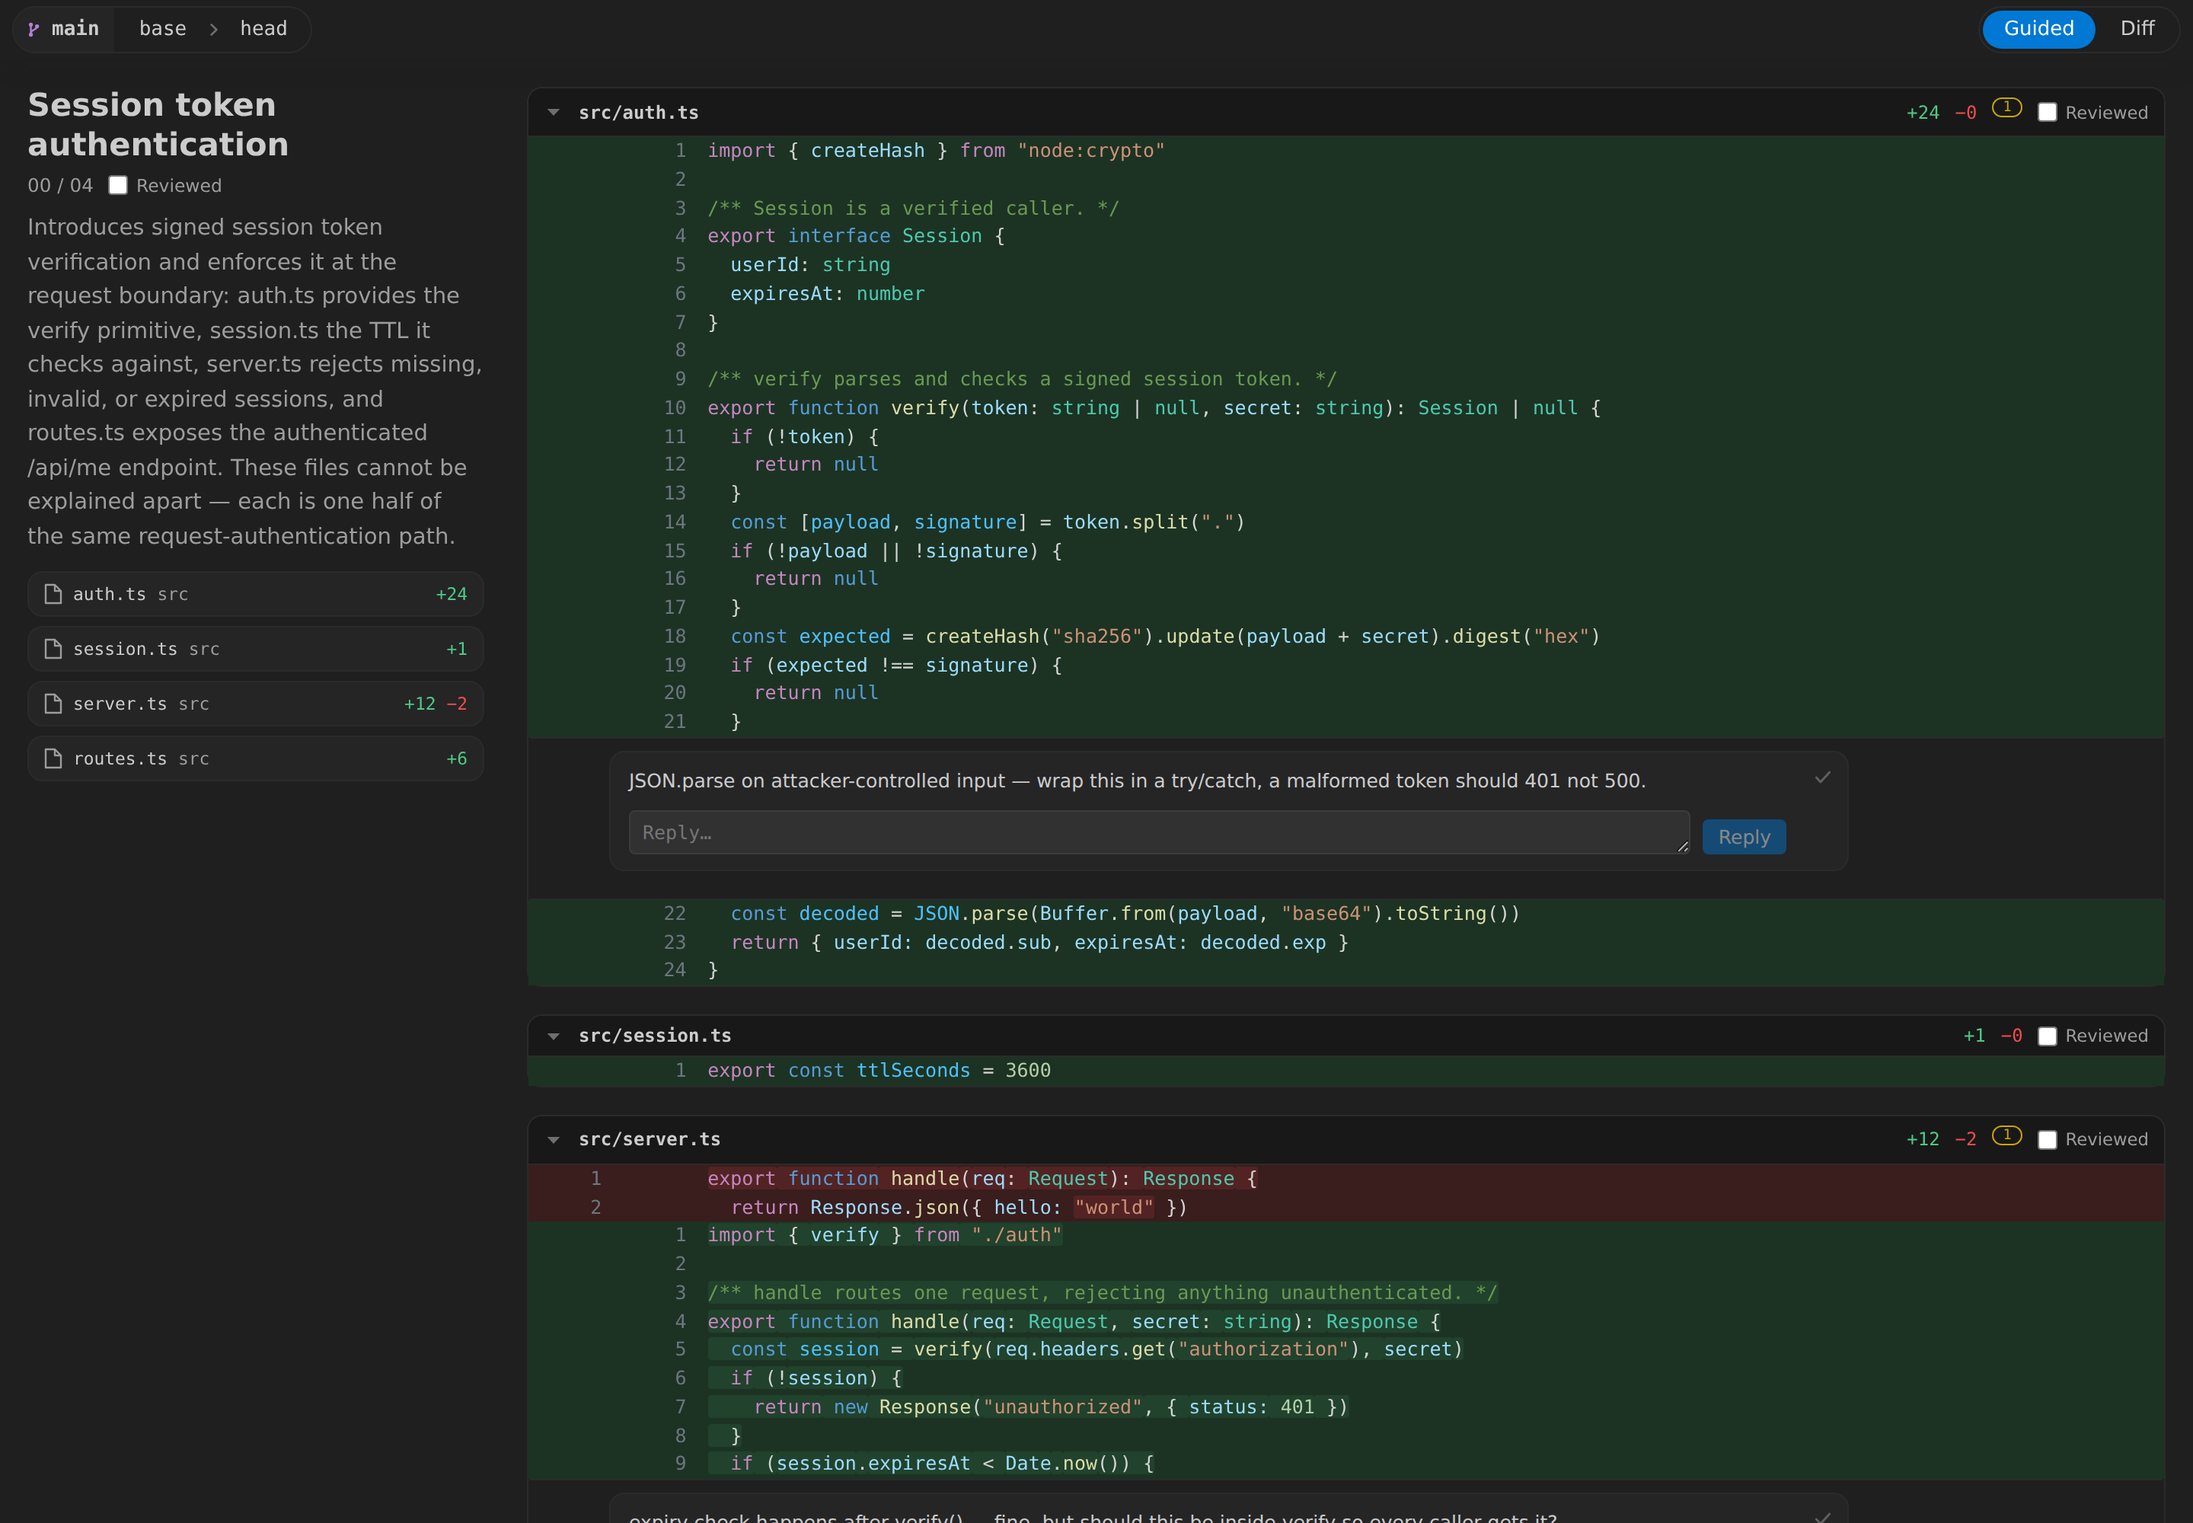
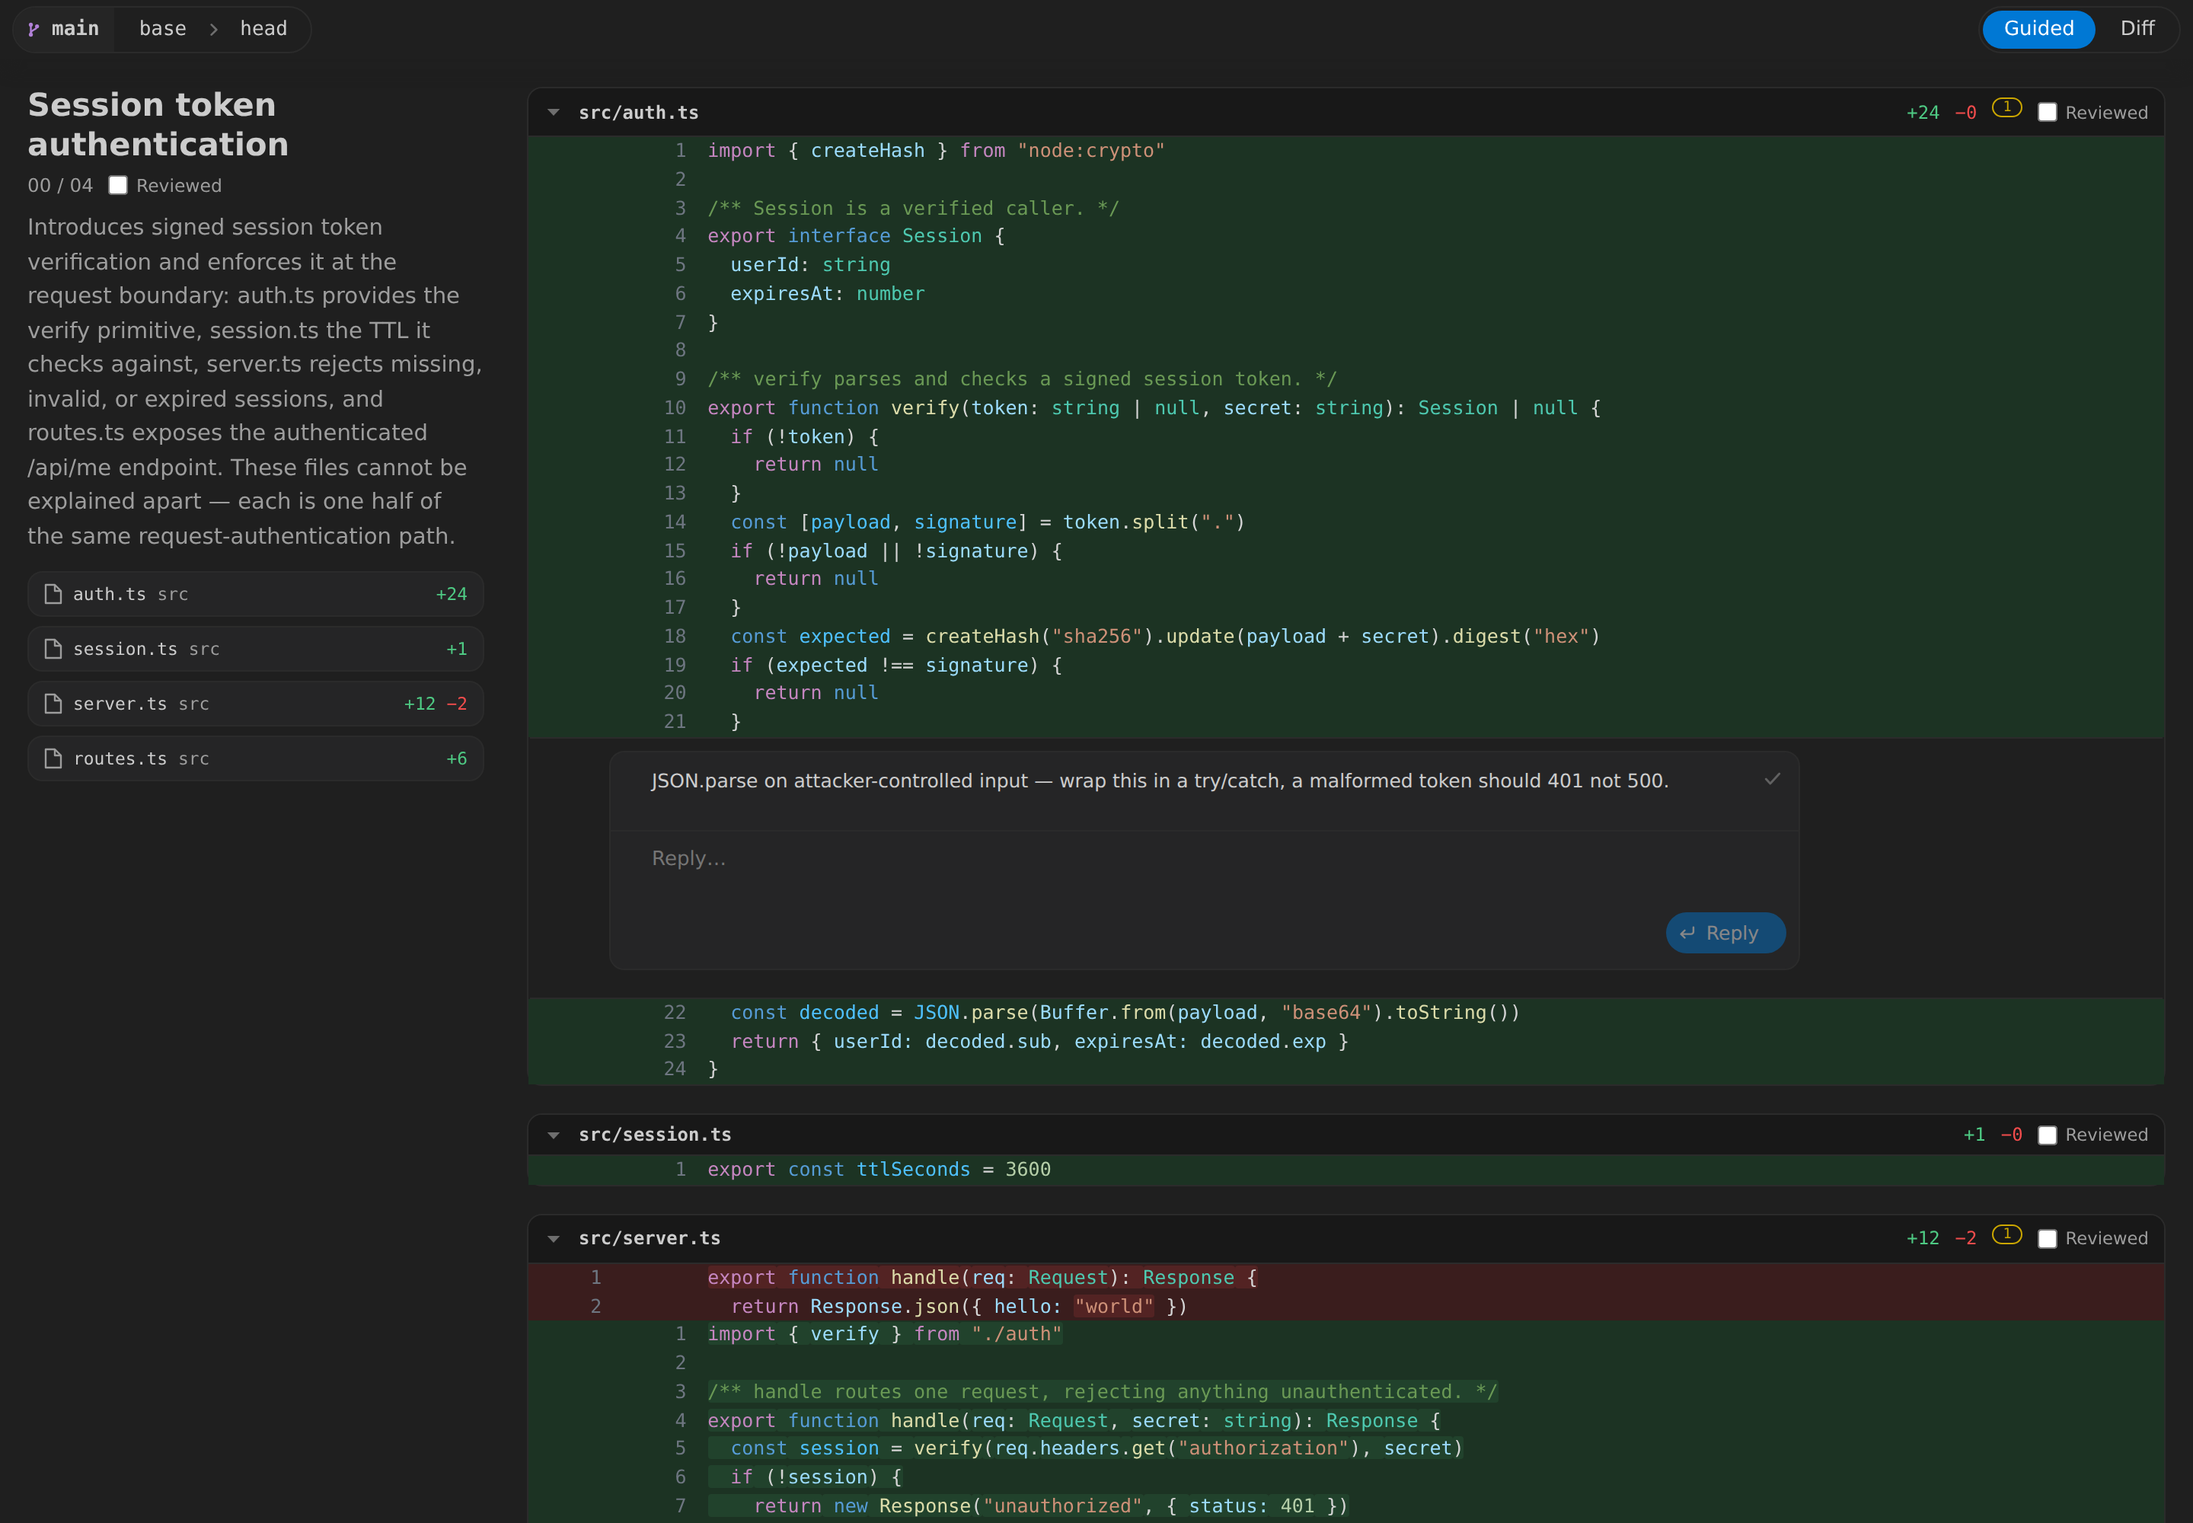
Give a comment box a mark, a rule, and a field that fills its floor
The thread card rebuilt from the accordion prototype:

- The agent's turn carries a blue dot in its own gutter instead of the
  word "agent", and every turn keeps that gutter so the text blocks line
  up whoever wrote them. The trash icon is its opposite number, sized to
  share the resolve tick's left edge.
- Turns are ruled apart and padded evenly, 21px above and below.
- The composer is the whole bottom of the card: no field border of its
  own, clicking anywhere in it starts typing, and it grows with the
  draft from one line up.
- Enter sends, Shift+Enter writes a new line, and the pill button says
  what the key does.
- A comment box nothing has been written in yet closes from an x in the
  corner rather than a Cancel button beside the send.

Composer and NewCommentBox were near-duplicates; they are now one
component under two labels.

Claude-Session: https://claude.ai/code/session_011eDuDDGQaiutako6dYBUAY

diff --git a/src/webview/CommentThread.tsx b/src/webview/CommentThread.tsx
@@ -1,4 +1,4 @@
-import { useState } from 'react'
+import { useRef, useState } from 'react'
 import type { Comment, Thread } from '../core/types.js'
 import { post } from './vscodeApi.js'
 
@@ -27,15 +27,18 @@ export const CommentThread = ({ thread }: { thread: Thread }) => {
       ) : (
         <>
           {thread.status === 'outdated' && <OutdatedNotice thread={thread} />}
-          {thread.comments.map(comment => (
-            <CommentBody
-              key={comment.id}
-              comment={comment}
-              onDelete={() => post({ type: 'deleteComment', threadId: thread.id, commentId: comment.id })}
-            />
-          ))}
+          <div className="gr-comments">
+            {thread.comments.map(comment => (
+              <CommentBody
+                key={comment.id}
+                comment={comment}
+                onDelete={() => post({ type: 'deleteComment', threadId: thread.id, commentId: comment.id })}
+              />
+            ))}
+          </div>
           <Composer
-            placeholder={resolved ? 'Reply to reopen…' : 'Reply…'}
+            placeholder="Reply…"
+            submitLabel="Reply"
             onSubmit={body => post({ type: 'reply', threadId: thread.id, body })}
           />
         </>
@@ -60,13 +63,13 @@ const ResolveTick = ({ resolved, onToggle }: { resolved: boolean; onToggle: () =
   </button>
 )
 
-/** CommentBody renders one message, labelling only the agent, with a delete affordance on hover. */
+/** CommentBody renders one message, marking only the agent, with a delete affordance on hover. */
 const CommentBody = ({ comment, onDelete }: { comment: Comment; onDelete: () => void }) => (
   <div className="gr-comment">
-    <div className="gr-comment-body">
-      {comment.author === 'agent' && <span className="gr-author">agent</span>}
-      {comment.body}
-    </div>
+    <span className="gr-comment-mark">
+      {comment.author === 'agent' && <i className="gr-comment-dot" title="agent" />}
+    </span>
+    <div className="gr-comment-body">{comment.body}</div>
     <button className="gr-comment-delete" aria-label="Delete comment" title="Delete comment" onClick={onDelete}>
       <TrashIcon />
     </button>
@@ -75,7 +78,7 @@ const CommentBody = ({ comment, onDelete }: { comment: Comment; onDelete: () => 
 
 /** TrashIcon is the delete glyph shown when a comment is hovered. */
 const TrashIcon = () => (
-  <svg viewBox="0 0 16 16" width="13" height="13" aria-hidden="true" focusable="false">
+  <svg viewBox="0 0 16 16" width="15" height="15" aria-hidden="true" focusable="false">
     <path
       fill="none"
       stroke="currentColor"
@@ -94,9 +97,22 @@ const OutdatedNotice = ({ thread }: { thread: Thread }) => (
   </>
 )
 
-/** Composer is the always-present box for adding a message to a thread. */
-const Composer = ({ placeholder, onSubmit }: { placeholder: string; onSubmit: (body: string) => void }) => {
+/** Composer is the box for adding a message: the whole region types, the button sends. */
+const Composer = ({
+  placeholder,
+  submitLabel,
+  autoFocus = false,
+  onSubmit,
+  onCancel,
+}: {
+  placeholder: string
+  submitLabel: string
+  autoFocus?: boolean
+  onSubmit: (body: string) => void
+  onCancel?: () => void
+}) => {
   const [draft, setDraft] = useState('')
+  const field = useRef<HTMLTextAreaElement>(null)
   const submit = () => {
     if (draft.trim()) {
       onSubmit(draft.trim())
@@ -105,58 +121,72 @@ const Composer = ({ placeholder, onSubmit }: { placeholder: string; onSubmit: (b
   }
 
   return (
-    <div className="gr-composer">
+    <div className="gr-composer" onClick={() => field.current?.focus()}>
       <textarea
-        rows={draft ? 3 : 1}
+        ref={field}
+        rows={1}
+        autoFocus={autoFocus}
         value={draft}
         placeholder={placeholder}
-        onChange={event => setDraft(event.target.value)}
+        onChange={event => {
+          setDraft(event.target.value)
+          grow(event.target)
+        }}
         onKeyDown={event => {
-          if (event.key === 'Enter' && (event.metaKey || event.ctrlKey)) {
+          if (event.key === 'Enter' && !event.shiftKey) {
+            event.preventDefault()
             submit()
+          }
+          if (event.key === 'Escape') {
+            onCancel?.()
           }
         }}
       />
-      <button disabled={!draft.trim()} onClick={submit}>
-        Reply
-      </button>
-    </div>
-  )
-}
-
-/** NewCommentBox is the composer shown when a line is first clicked. */
-export const NewCommentBox = ({ onSubmit, onCancel }: { onSubmit: (body: string) => void; onCancel: () => void }) => {
-  const [draft, setDraft] = useState('')
-  const submit = () => {
-    if (draft.trim()) {
-      onSubmit(draft.trim())
-    }
-  }
-
-  return (
-    <div className="gr-thread">
-      <div className="gr-composer">
-        <textarea
-          autoFocus
-          rows={3}
-          value={draft}
-          placeholder="Leave a comment…  (Cmd/Ctrl+Enter to save)"
-          onChange={event => setDraft(event.target.value)}
-          onKeyDown={event => {
-            if (event.key === 'Enter' && (event.metaKey || event.ctrlKey)) {
-              submit()
-            }
-            if (event.key === 'Escape') {
-              onCancel()
-            }
-          }}
-        />
-        <button disabled={!draft.trim()} onClick={submit}>
-          Comment
+      <div className="gr-composer-buttons">
+        <button className="gr-send" disabled={!draft.trim()} onClick={submit}>
+          <ReturnIcon />
+          {submitLabel}
         </button>
       </div>
     </div>
   )
+}
+
+/** ReturnIcon is the key the send button answers to. */
+const ReturnIcon = () => (
+  <svg viewBox="0 0 16 16" width="13" height="13" aria-hidden="true" focusable="false">
+    <path
+      fill="none"
+      stroke="currentColor"
+      strokeWidth="1.5"
+      strokeLinecap="round"
+      strokeLinejoin="round"
+      d="M13.5 3.5v3.5a2 2 0 0 1-2 2H3.5M6.5 6 3.5 9l3 3"
+    />
+  </svg>
+)
+
+/** CloseIcon is the way out of a comment box nothing has been written in yet. */
+const CloseIcon = () => (
+  <svg viewBox="0 0 16 16" width="13" height="13" aria-hidden="true" focusable="false">
+    <path fill="none" stroke="currentColor" strokeWidth="1.4" strokeLinecap="round" d="M4 4l8 8M12 4l-8 8" />
+  </svg>
+)
+
+/** NewCommentBox is the composer shown when a line is first clicked. */
+export const NewCommentBox = ({ onSubmit, onCancel }: { onSubmit: (body: string) => void; onCancel: () => void }) => (
+  <div className="gr-thread fresh">
+    <button className="gr-close" aria-label="Close" title="Close" onClick={onCancel}>
+      <CloseIcon />
+    </button>
+    <Composer placeholder="Leave a comment…" submitLabel="Comment" autoFocus onSubmit={onSubmit} onCancel={onCancel} />
+  </div>
+)
+
+/** grow keeps the field the height of the draft it holds. */
+function grow(field: HTMLTextAreaElement): void {
+  field.style.height = 'auto'
+  field.style.height = `${field.scrollHeight}px`
 }
 
 /** preview is the one-line summary a resolved thread collapses to. */

diff --git a/src/webview/theme.css b/src/webview/theme.css
@@ -606,7 +606,7 @@ textarea:focus { outline: 1px solid var(--vscode-focusBorder); }
   background: var(--vscode-editorWidget-background, var(--vscode-editor-background));
   border: 1px solid var(--vscode-panel-border);
   border-radius: var(--gr-card-radius);
-  padding: 10px 40px 10px 12px;
+  padding: 10px 8px 10px 12px;
   margin-bottom: 8px;
   max-width: 760px;
 }
@@ -623,8 +623,8 @@ textarea:focus { outline: 1px solid var(--vscode-focusBorder); }
   display: flex;
   align-items: center;
   justify-content: center;
-  width: 20px;
-  height: 20px;
+  width: 22px;
+  height: 22px;
   padding: 0;
   background: transparent;
   border: none;
@@ -634,6 +634,25 @@ textarea:focus { outline: 1px solid var(--vscode-focusBorder); }
   color: var(--vscode-descriptionForeground);
 }
 
+.gr-close {
+  position: absolute;
+  top: 6px;
+  right: 6px;
+  display: flex;
+  align-items: center;
+  justify-content: center;
+  width: 22px;
+  height: 22px;
+  padding: 0;
+  background: transparent;
+  border: none;
+  border-radius: var(--gr-radius);
+  cursor: pointer;
+  opacity: 0.6;
+  color: var(--vscode-descriptionForeground);
+}
+
+.gr-close:hover,
 .gr-tick:hover {
   opacity: 1;
   background: var(--vscode-toolbar-hoverBackground, var(--vscode-list-hoverBackground, transparent));
@@ -655,8 +674,19 @@ textarea:focus { outline: 1px solid var(--vscode-focusBorder); }
   white-space: nowrap;
 }
 
-.gr-comment { display: flex; align-items: flex-start; gap: 6px; margin-bottom: 8px; line-height: 1.5; }
+.gr-comment { display: flex; align-items: flex-start; gap: 9px; padding: 21px 0; line-height: 1.5; }
+.gr-comments .gr-comment:first-child { padding-top: 0; }
+.gr-comment + .gr-comment { border-top: 1px solid var(--vscode-panel-border); }
 .gr-comment-body { flex: 1; min-width: 0; white-space: pre-wrap; }
+.gr-comment-mark { flex: none; width: 6px; align-self: stretch; padding-top: 6px; }
+
+.gr-comment-dot {
+  display: block;
+  width: 6px;
+  height: 6px;
+  border-radius: 50%;
+  background: var(--vscode-textLink-foreground);
+}
 
 .gr-comment-delete {
   flex: none;
@@ -681,11 +711,44 @@ textarea:focus { outline: 1px solid var(--vscode-focusBorder); }
   opacity: 1;
   background: var(--vscode-toolbar-hoverBackground, var(--vscode-list-hoverBackground, transparent));
 }
-.gr-author { font-weight: 600; margin-right: 6px; color: var(--vscode-textLink-foreground); }
+.gr-composer {
+  margin: 0 -8px -10px -12px;
+  padding: 9px 8px 10px 27px;
+  border-top: 1px solid var(--vscode-panel-border);
+  cursor: text;
+}
 
-.gr-composer { display: flex; gap: 8px; align-items: flex-end; margin-top: 8px; }
-.gr-composer textarea { flex: 1; min-height: 28px; }
-.gr-composer button:disabled { opacity: 0.45; cursor: default; }
+.gr-thread.fresh .gr-composer { margin-top: -10px; padding: 10px; border-top: none; }
+.gr-thread.fresh .gr-composer textarea { padding-right: 24px; }
+
+.gr-composer textarea {
+  display: block;
+  width: 100%;
+  min-height: 38px;
+  padding: 0;
+  background: none;
+  border: none;
+  border-radius: 0;
+  color: var(--vscode-editor-foreground);
+  font-family: var(--vscode-font-family);
+  font-size: var(--vscode-font-size);
+  line-height: 1.5;
+  resize: none;
+  overflow: hidden;
+}
+
+.gr-composer textarea:focus { outline: none; }
+.gr-composer-buttons { display: flex; justify-content: flex-end; margin-top: 6px; }
+
+.gr-send {
+  display: inline-flex;
+  align-items: center;
+  gap: 6px;
+  padding: 6px 18px 6px 7px;
+  border-radius: 999px;
+}
+
+.gr-send:disabled { opacity: 0.45; cursor: default; }
 
 .gr-badge {
   display: inline-block;

diff --git a/src/webview/CommentThread.test.tsx b/src/webview/CommentThread.test.tsx
@@ -1,8 +1,8 @@
 // @vitest-environment jsdom
 import { describe, it, expect, vi, afterEach } from 'vitest'
-import { render, screen, cleanup } from '@testing-library/react'
+import { render, screen, cleanup, fireEvent } from '@testing-library/react'
 import type { Thread } from '../core/types.js'
-import { CommentThread } from './CommentThread.js'
+import { CommentThread, NewCommentBox } from './CommentThread.js'
 import { post } from './vscodeApi.js'
 
 vi.mock('./vscodeApi.js', () => ({ post: vi.fn() }))
@@ -37,5 +37,65 @@ describe('CommentThread', () => {
     render(<CommentThread thread={thread} />)
 
     expect(screen.getAllByLabelText('Delete comment')).toHaveLength(2)
+  })
+
+  it('sends the reply on Enter', () => {
+    render(<CommentThread thread={thread} />)
+    const field = screen.getByRole('textbox')
+
+    fireEvent.change(field, { target: { value: 'looks right' } })
+    fireEvent.keyDown(field, { key: 'Enter' })
+
+    expect(post).toHaveBeenCalledWith({ type: 'reply', threadId: 't1', body: 'looks right' })
+  })
+
+  it('keeps writing on Shift+Enter', () => {
+    render(<CommentThread thread={thread} />)
+    const field = screen.getByRole('textbox')
+
+    fireEvent.change(field, { target: { value: 'one' } })
+    fireEvent.keyDown(field, { key: 'Enter', shiftKey: true })
+
+    expect(post).not.toHaveBeenCalled()
+  })
+
+  it('starts typing when the composer region is clicked', () => {
+    const { container } = render(<CommentThread thread={thread} />)
+
+    fireEvent.click(container.querySelector('.gr-composer') as HTMLElement)
+
+    expect(document.activeElement).toBe(screen.getByRole('textbox'))
+  })
+
+  it('marks the agent comment and leaves the reader own unmarked', () => {
+    render(<CommentThread thread={thread} />)
+
+    expect(screen.getAllByTitle('agent')).toHaveLength(1)
+    expect(screen.queryByText('agent')).toBeNull()
+  })
+})
+
+describe('NewCommentBox', () => {
+  afterEach(cleanup)
+
+  it('closes from the corner rather than a cancel button', () => {
+    const onCancel = vi.fn()
+    render(<NewCommentBox onSubmit={vi.fn()} onCancel={onCancel} />)
+
+    screen.getByLabelText('Close').click()
+
+    expect(onCancel).toHaveBeenCalled()
+    expect(screen.queryByText('Cancel')).toBeNull()
+  })
+
+  it('saves the first comment on Enter', () => {
+    const onSubmit = vi.fn()
+    render(<NewCommentBox onSubmit={onSubmit} onCancel={vi.fn()} />)
+    const field = screen.getByRole('textbox')
+
+    fireEvent.change(field, { target: { value: 'a thought' } })
+    fireEvent.keyDown(field, { key: 'Enter' })
+
+    expect(onSubmit).toHaveBeenCalledWith('a thought')
   })
 })
